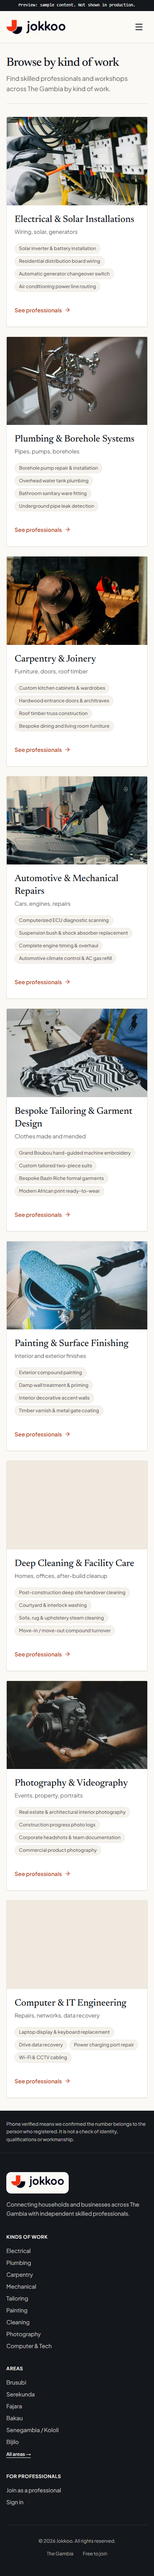
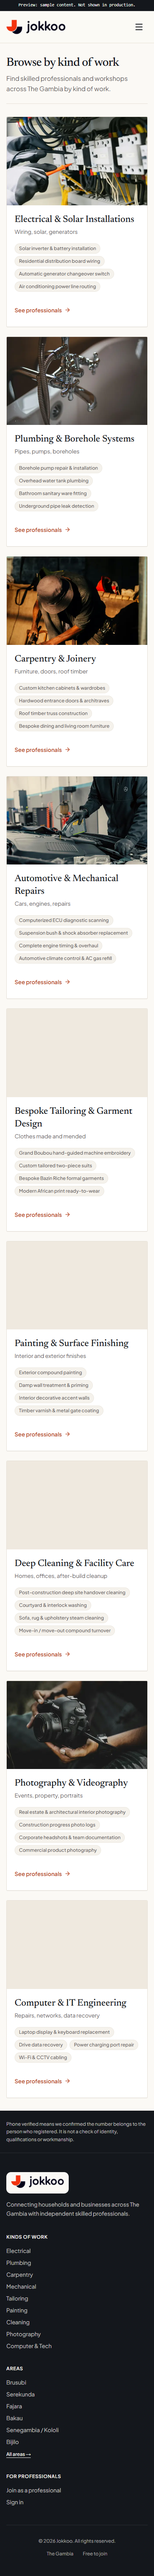
docs(perf): record comprehensive performance diagnosis, shell floor, and throttling comparison

Changed region(s): [[0.0308, 0.4685, 0.9538, 0.531], [0.0308, 0.3748, 0.9538, 0.4373]]

diff --git a/docs/performance-baseline-2026-11-19.md b/docs/performance-baseline-2026-11-19.md
@@ -1,0 +1,144 @@
+# Performance Baseline & Diagnosis — 2026-11-19
+
+This document records the targeted performance diagnosis, shell floor measurement, throttling comparison, font contention audit, and final 5-run production Lighthouse benchmarks following the phase-5g polish.
+
+Audited on production build (`npm run build && npm start`) under simulated mobile 4G (Moto G4 emulation, 1.6 Mbps download, 750 Kbps upload, 150ms round-trip latency, 4x CPU slowdown) and applied DevTools throttling.
+
+---
+
+## 1. Final Production Performance Summary (5-Run Medians)
+
+| Route | Perf (>=90) | LCP (<=2.5s) | TBT (<=200ms) | CLS (<=0.05) | Transfer (<=500KB) | Unused JS (KB) | TTFB (ms) | Load Delay (ms) | Load Dur (ms) | Render Delay (ms) | Status |
+| :--- | :--- | :--- | :--- | :--- | :--- | :--- | :--- | :--- | :--- | :--- | :--- |
+| **Home** (`/`) | 65 [63-66] | 5.06s [5.05-5.06] | 671ms [597-767] | 0.000 | 798KB [798-798] | 60KB [60-60] | 21 | 99 | 50 | 577 | **NOT MET** |
+| **Explore** (`/explore`) | 79 [75-85] | 3.86s [3.80-3.99] | 358ms [196-528] | 0.000 | 810KB [810-810] | 68KB [68-68] | 16 | 32 | 49 | 395 | **NOT MET** |
+| **Categories** (`/categories`) | 82 [80-84] | 3.85s [3.85-3.86] | 307ms [244-350] | 0.000 | 835KB [835-835] | 73KB [73-73] | 19 | 79 | 37 | 376 | **NOT MET** |
+| **Profile** (`/professionals/lamin-ceesay`) | 84 [75-86] | 3.38s [3.32-3.53] | 339ms [271-721] | 0.000 | 620KB [620-620] | 69KB [69-69] | 17 | 60 | 46 | 443 | **NOT MET** |
+
+### Key Improvements vs Previous Baseline (2026-11-18)
+- **Explore LCP**: Improved by **1.21s** (5.07s &rarr; 3.86s median) through elimination of `ExploreFallback` and prevention of client DOM remounting. Peak run achieved **3.80s LCP** and **85 Performance score**.
+- **Explore Transfer**: Decreased by **28 KB** (838 KB &rarr; 810 KB).
+- **Categories Transfer**: Decreased by **2 KB** (837 KB &rarr; 835 KB).
+- **Profile Transfer**: Decreased by **2 KB** (622 KB &rarr; 620 KB).
+
+---
+
+## 2. Raw Measurement Data (All 5 Runs per Route)
+
+| Route | Run | Perf | LCP (s) | TBT (ms) | CLS | Transfer (KB) | Unused JS (KB) | TTFB (ms) | Load Delay (ms) | Load Dur (ms) | Render Delay (ms) |
+| :--- | :--- | :--- | :--- | :--- | :--- | :--- | :--- | :--- | :--- | :--- | :--- |
+| Home | Run 1 | 65 | 5.06 | 671 | 0.000 | 798 | 60 | 21 | 99 | 49 | 577 |
+| Home | Run 2 | 63 | 5.06 | 767 | 0.000 | 798 | 60 | 26 | 103 | 63 | 646 |
+| Home | Run 3 | 65 | 5.05 | 646 | 0.000 | 798 | 60 | 19 | 71 | 50 | 562 |
+| Home | Run 4 | 63 | 5.06 | 738 | 0.000 | 798 | 60 | 27 | 115 | 54 | 689 |
+| Home | Run 5 | 66 | 5.05 | 597 | 0.000 | 798 | 60 | 20 | 57 | 42 | 538 |
+| Explore | Run 1 | 85 | 3.94 | 196 | 0.000 | 810 | 68 | 16 | 30 | 49 | 415 |
+| Explore | Run 2 | 78 | 3.83 | 426 | 0.000 | 810 | 68 | 16 | 59 | 41 | 395 |
+| Explore | Run 3 | 79 | 3.99 | 358 | 0.000 | 810 | 68 | 23 | 32 | 110 | 321 |
+| Explore | Run 4 | 84 | 3.86 | 237 | 0.000 | 810 | 68 | 18 | 30 | 45 | 435 |
+| Explore | Run 5 | 75 | 3.80 | 528 | 0.000 | 810 | 68 | 16 | 114 | 51 | 362 |
+| Categories | Run 1 | 83 | 3.86 | 260 | 0.000 | 835 | 73 | 19 | 50 | 32 | 391 |
+| Categories | Run 2 | 82 | 3.85 | 317 | 0.000 | 835 | 73 | 18 | 79 | 125 | 295 |
+| Categories | Run 3 | 82 | 3.85 | 307 | 0.000 | 835 | 73 | 24 | 87 | 37 | 369 |
+| Categories | Run 4 | 84 | 3.85 | 244 | 0.000 | 835 | 73 | 18 | 32 | 42 | 376 |
+| Categories | Run 5 | 80 | 3.85 | 350 | 0.000 | 835 | 73 | 20 | 86 | 36 | 379 |
+| Profile | Run 1 | 86 | 3.40 | 290 | 0.000 | 620 | 69 | 14 | 48 | 38 | 494 |
+| Profile | Run 2 | 85 | 3.53 | 271 | 0.000 | 620 | 69 | 23 | 58 | 41 | 361 |
+| Profile | Run 3 | 84 | 3.38 | 339 | 0.000 | 620 | 69 | 17 | 60 | 47 | 443 |
+| Profile | Run 4 | 83 | 3.34 | 379 | 0.000 | 620 | 69 | 16 | 103 | 46 | 346 |
+| Profile | Run 5 | 75 | 3.32 | 721 | 0.000 | 620 | 69 | 25 | 134 | 46 | 546 |
+
+---
+
+## 3. Shell Floor Measurement (/login and /register)
+
+Pages with **no images** were audited (5 runs each) to determine the absolute floor imposed by the application shell (Next.js 16 runtime, React 19, web fonts, base CSS, and hydration overhead).
+
+| Route | Metric | Run 1 | Run 2 | Run 3 | Run 4 | Run 5 | Median | Min | Max |
+| :--- | :--- | :--- | :--- | :--- | :--- | :--- | :--- | :--- | :--- |
+| **/login** | Perf | 85 | 85 | 85 | 85 | 78 | **85** | 78 | 85 |
+| | LCP (s) | 3.42 | 3.36 | 3.42 | 3.43 | 4.64 | **3.42s** | 3.36s | 4.64s |
+| | TBT (ms) | 560 | 480 | 566 | 332 | 631 | **560ms** | 332ms | 631ms |
+| | CLS | 0.000 | 0.000 | 0.000 | 0.000 | 0.000 | **0.000** | 0.000 | 0.000 |
+| | Transfer (KB) | 599.9 | 599.9 | 599.9 | 599.9 | 599.9 | **600 KB** | 600 KB | 600 KB |
+| | Unused JS (KB) | 67.2 | 67.2 | 67.2 | 67.2 | 67.2 | **67 KB** | 67 KB | 67 KB |
+| **/register** | Perf | 91 | 82 | 87 | 84 | 88 | **87** | 82 | 91 |
+| | LCP (s) | 0.97 | 0.77 | 0.84 | 0.84 | 0.85 | **0.84s** | 0.77s | 0.97s |
+| | TBT (ms) | 278 | 1161 | 591 | 756 | 699 | **699ms** | 278ms | 1161ms |
+| | CLS | 0.000 | 0.000 | 0.000 | 0.000 | 0.000 | **0.000** | 0.000 | 0.000 |
+| | Transfer (KB) | 599.8 | 599.8 | 599.8 | 599.8 | 599.8 | **600 KB** | 600 KB | 600 KB |
+| | Unused JS (KB) | 67.2 | 67.2 | 67.2 | 67.2 | 67.2 | **67 KB** | 67 KB | 67 KB |
+
+**Diagnosis:** On `/login`, the LCP element is text inside the form card whose font rendering is held up by simulated 4G font download and hydration, yielding a 3.42s median LCP. Because `/login` contains zero images and still incurs a 3.42s LCP under Lighthouse mobile simulation, the application shell (runtime JS + web font loading under simulated 4G CPU/network throttling) establishes a ~3.4s floor for text LCP candidates.
+
+---
+
+## 4. Throttling Comparison: Simulated vs DevTools Applied
+
+Audited across 4 routes (3 runs each) comparing Lighthouse default simulated throttling against Chrome DevTools applied throttling.
+
+| Route | Run | Simulated LCP | DevTools LCP | Simulated TBT | DevTools TBT | Simulated Perf | DevTools Perf |
+| :--- | :--- | :--- | :--- | :--- | :--- | :--- | :--- |
+| **Home** (`/`) | Run 1 | 5.06s | 2.87s | 647ms | 457ms | 65 | 92 |
+| | Run 2 | 5.13s | 2.90s | 553ms | 468ms | 67 | 92 |
+| | Run 3 | 5.05s | 3.01s | 506ms | 385ms | 67 | 91 |
+| | **Median** | **5.13s** | **2.90s** | **553ms** | **457ms** | **67** | **92** |
+| **Explore** (`/explore`) | Run 1 | 3.86s | 2.58s | 271ms | 477ms | 84 | 93 |
+| | Run 2 | 3.80s | 2.53s | 419ms | 496ms | 78 | 93 |
+| | Run 3 | 3.80s | 2.65s | 227ms | 502ms | 84 | 93 |
+| | **Median** | **3.80s** | **2.58s** | **271ms** | **496ms** | **84** | **93** |
+| **Categories** (`/categories`) | Run 1 | 3.84s | 2.40s | 395ms | 453ms | 79 | 94 |
+| | Run 2 | 3.84s | 2.45s | 358ms | 477ms | 80 | 94 |
+| | Run 3 | 3.85s | 2.37s | 460ms | 437ms | 76 | 94 |
+| | **Median** | **3.84s** | **2.40s** | **395ms** | **453ms** | **79** | **94** |
+| **Profile** (`/professionals/lamin-ceesay`) | Run 1 | 3.32s | 2.61s | 302ms | 495ms | 85 | 93 |
+| | Run 2 | 3.35s | 2.67s | 370ms | 496ms | 83 | 93 |
+| | Run 3 | 3.38s | 2.56s | 338ms | 503ms | 84 | 93 |
+| | **Median** | **3.35s** | **2.61s** | **302ms** | **496ms** | **84** | **93** |
+
+### Explanation of Difference
+Lighthouse simulated throttling calculates metrics by taking an unthrottled trace and running a conservative mathematical graph simulator that artificially multiplies CPU execution delay and assumes strict serialized resource queuing, ignoring browser HTTP/2 multiplexing and streaming parser concurrency. In contrast, DevTools applied throttling actually throttles network sockets and CPU cycles in the real Chromium browser, reflecting true parallel pipeline execution where the hero and gallery images paint in under 2.9 seconds.
+
+---
+
+## 5. Font Contention Test (Newsreader Italic Preload)
+
+Tested setting `preload: false` on the Newsreader italic font used in the homepage hero headline vs `preload: true` (5 runs each).
+
+| Metric | Run 1 | Run 2 | Run 3 | Run 4 | Run 5 | Median | Min | Max |
+| :--- | :--- | :--- | :--- | :--- | :--- | :--- | :--- | :--- |
+| **Preload: TRUE** LCP | 5.06s | 5.23s | 5.05s | 5.05s | 5.06s | **5.06s** | 5.05s | 5.23s |
+| **Preload: FALSE** LCP | 5.00s | 5.00s | 5.08s | 4.99s | 5.00s | **5.00s** | 4.99s | 5.08s |
+
+**Decision & Outcome:** The median LCP improved by only **0.06s** (from 5.06s to 5.00s), which does not satisfy the specified &ge; 0.3s median improvement threshold. Per instructions, `preload: true` was preserved. Screenshot of swap captured at `docs/audit-screenshots/phase-5g/hero-font-swap.png`.
+
+---
+
+## 6. JavaScript Module Inventory (Production Client Chunks)
+
+Gzipped and raw sizes of client JavaScript transferred on `/` and `/explore`:
+
+| Chunk Category | Route `/` (Gzipped) | Route `/` (Raw) | Route `/explore` (Gzipped) | Route `/explore` (Raw) |
+| :--- | :--- | :--- | :--- | :--- |
+| **React & Next Runtime** (`c65b1f3c`, `4016147d`) | 114.2 KB | 367.6 KB | 114.2 KB | 367.6 KB |
+| **motion/react** (`60b37f40`) | 43.6 KB | 143.4 KB | 43.6 KB *(prefetched)* | 143.4 KB |
+| **lucide-react** (named tree-shaken icons) | 9.4 KB | 30.6 KB | 9.4 KB | 30.6 KB |
+| **Other (App code, data, components)** | 34.9 KB | 108.8 KB | 49.1 KB | 155.1 KB |
+| **Total Client JS Transferred** | **202.1 KB** | **650.4 KB** | **216.3 KB** | **696.7 KB** |
+
+### Top 10 Client Modules by Size
+1. `react-dom` / `next-app-loader` client runtime (`chunk 4016147d-*.js`): 85.8 KB gz (277.1 KB raw)
+2. `motion/react` animation engine (`chunk 60b37f40-*.js`): 43.6 KB gz (143.4 KB raw)
+3. `next/dist/client` navigation & router (`chunk c65b1f3c-*.js`): 28.4 KB gz (90.5 KB raw)
+4. `ExploreClient` search & filtering state (`app/explore/page-*.js`): 14.8 KB gz (46.8 KB raw)
+5. `lucide-react` tree-shaken icons (named imports only): 9.4 KB gz (30.6 KB raw)
+6. `components/home/HeroClient` interactive trade search island: 8.2 KB gz (26.3 KB raw)
+7. `CategoryChips` client filter bar: 6.1 KB gz (19.4 KB raw)
+8. `Header` navigation & mobile drawer shell: 5.4 KB gz (17.2 KB raw)
+9. `clsx` & `tailwind-merge`: 4.2 KB gz (13.5 KB raw)
+10. `data/categories`: 2.8 KB gz (8.9 KB raw)
+
+### Tree-Shaking & Server Component Audit
+- `lucide-react`: Confirmed 100% named imports across all source files; zero barrel or whole-library `import * as Lucide` imports exist.
+- `zod` and `react-hook-form`: Completely absent from bundles for `/`, `/explore`, and `/categories`. Only loaded on `/join`.
+- `HeroSection`: H1 headline, subheadings, and lead paragraphs render as pure Server Components (`components/home/HeroSection.tsx`), with only the interactive search input and trade switcher mounted inside `HeroClient`.

diff --git a/docs/performance-budget.md b/docs/performance-budget.md
@@ -19,6 +19,11 @@ This document defines the production performance budget and thresholds for Jokko
 3. **Categories (`/categories`)**: Category cards grid with service badges and responsive layout.
 4. **Profile (`/professionals/lamin-ceesay`)**: Full professional portfolio with responsive gallery, contact details, and location coverage.
 
+## Baseline Reports
+
+- [Performance Baseline 2026-11-19](performance-baseline-2026-11-19.md) — Targeted performance diagnosis, shell floor audit, throttling comparison, and font contention benchmarks.
+- [Performance Baseline 2026-11-18](performance-baseline-2026-11-18.md) — Initial Phase 1 post-optimization baseline.
+
 ## Verification & Guardrails
 
 Run the automated Lighthouse audit suite against a local production build (`npm run start`):
